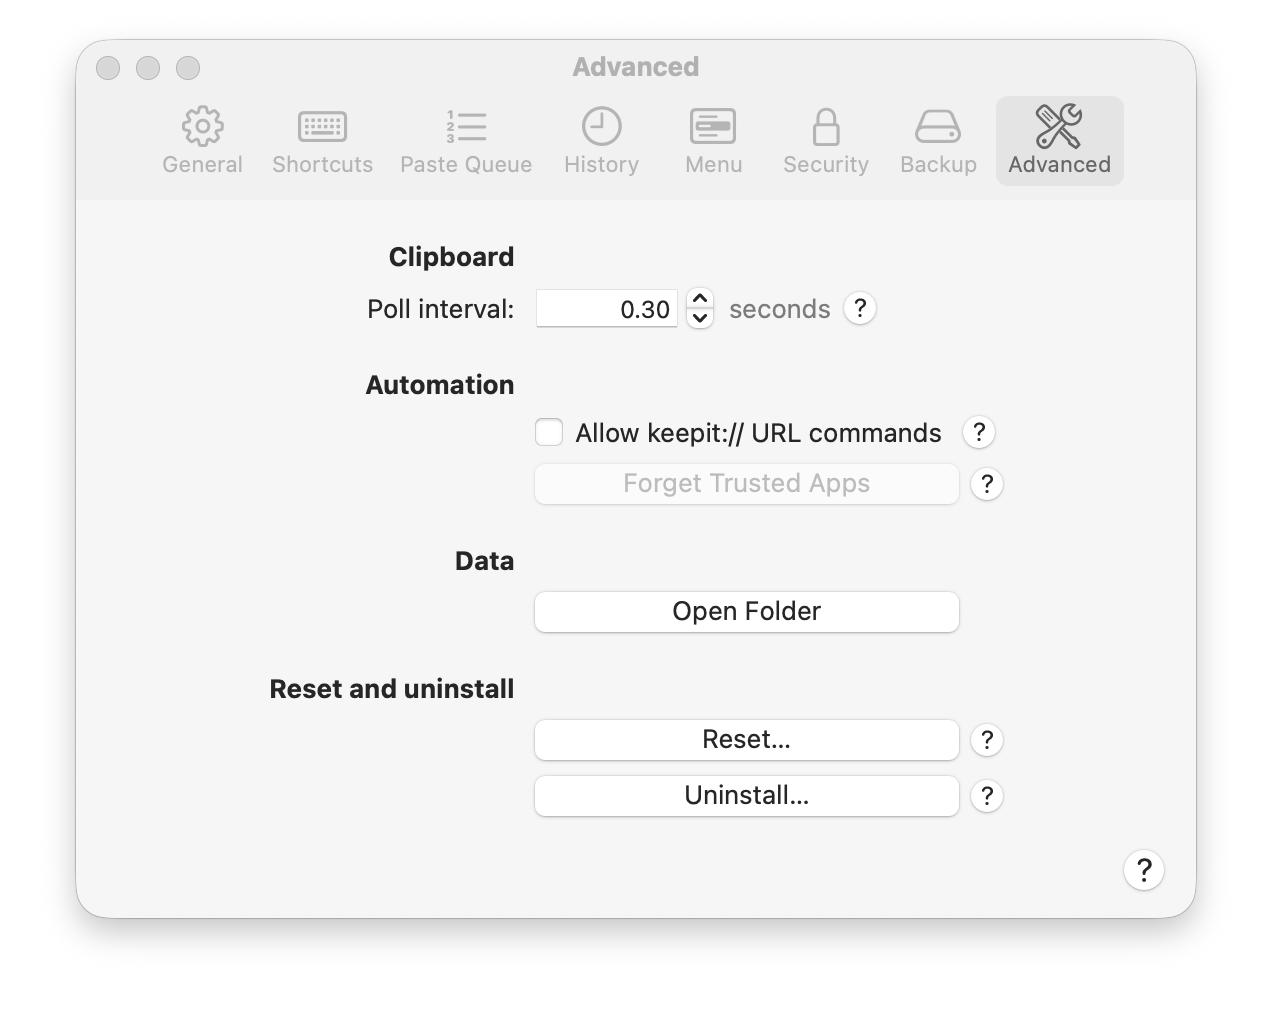
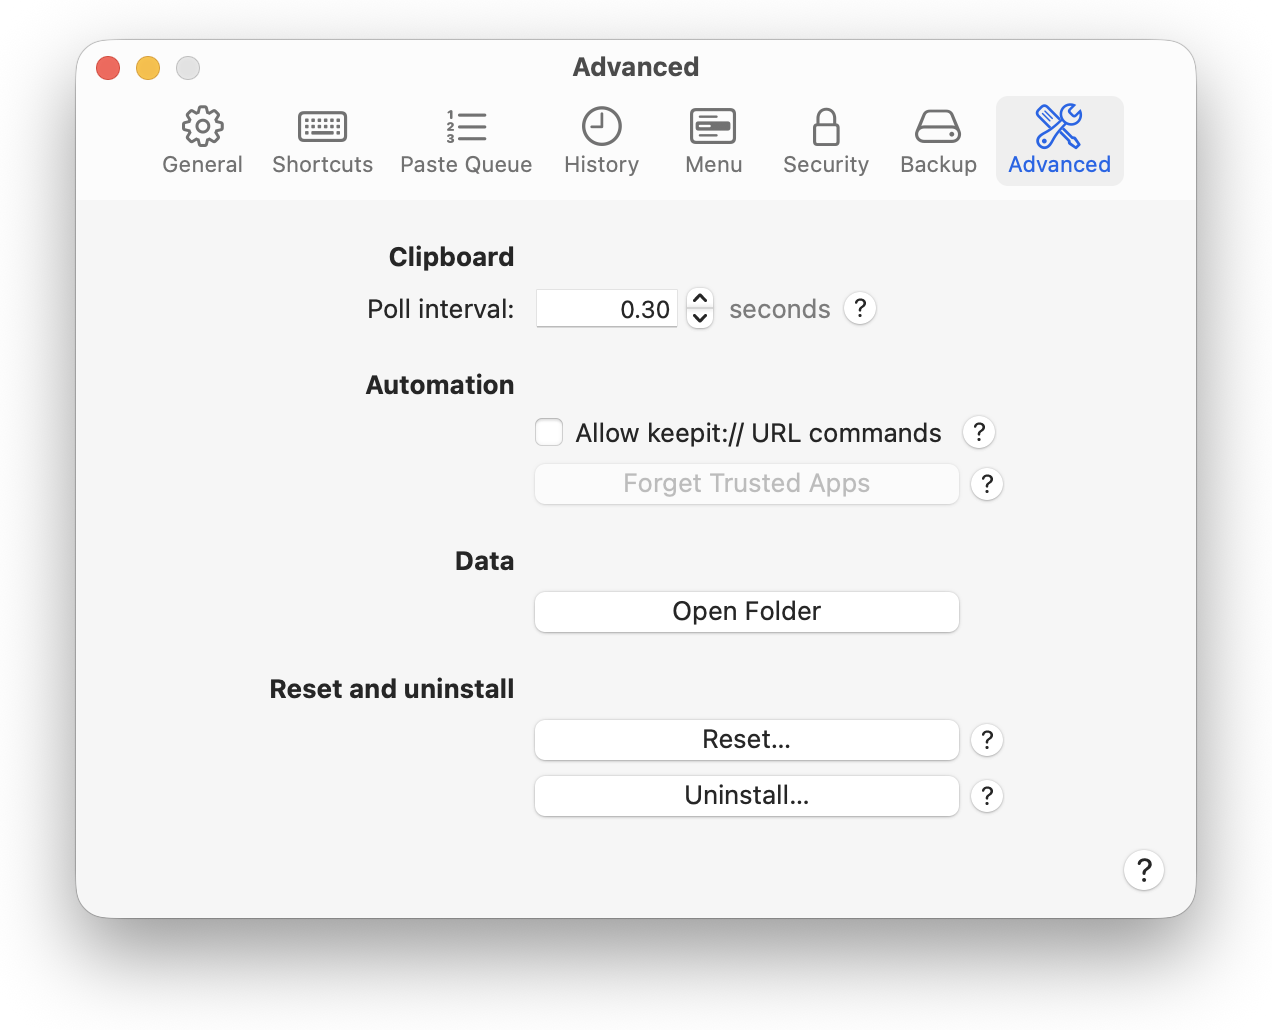
Guide: Backup and Advanced panes retaken on 3.0.1; the restore preview and the Save to Archive panel as figures
Claude-Session: https://claude.ai/code/session_018CvCqvTTYcjZs6rVg6ZZHt

diff --git a/docs/site/guide.html b/docs/site/guide.html
@@ -418,7 +418,7 @@ changed. There is no Keepit server: the folder is yours. What the provider behin
 encrypted file, its size and a small unencrypted header (when and by which Keepit it was written,
 how the key is derived, random identifiers — and your Mac's name only if you switch that on); the
 <a href="/security#backups">security page</a> lists it field by field.</p>
-<figure class="shot" style="max-width:636px"><a href="img/guide/prefs-backup.png?v=20cf46e6" class="zoom" title="Open full size"><img src="img/guide/prefs-backup.png?v=20cf46e6" alt="Settings → Backup: automatic backup, manual backup, restore" width="636" height="527" loading="lazy"></a><figcaption>Settings → Backup: automatic backup, manual backup, restore</figcaption></figure>
+<figure class="shot" style="max-width:636px"><a href="img/guide/prefs-backup.png?v=74a89d0d" class="zoom" title="Open full size"><img src="img/guide/prefs-backup.png?v=74a89d0d" alt="Settings → Backup: automatic backup, manual backup, restore" width="636" height="527" loading="lazy"></a><figcaption>Settings → Backup: automatic backup, manual backup, restore</figcaption></figure>
 <p><strong>Switching it on.</strong> <em>Settings → Backup → Back up automatically to a folder</em>, then
 <em>Choose…</em> a folder (the chooser opens in iCloud Drive). Automatic backup needs the password
 protection from <em>Settings → Security</em>: each copy is sealed with a key derived from your vault's key,
@@ -439,6 +439,7 @@ can see that name; that is why it is optional.</p>
 after you unlock it: with the password of the Mac it was made on, or with the recovery phrase that
 Mac showed when its password was set (<em>Recovery Access…</em> in the password dialog). A preview shows
 when and where the file was made and how many items it holds, then:</p>
+<figure class="shot" style="max-width:636px"><a href="img/guide/restore-preview.png?v=9cc1b2ab" class="zoom" title="Open full size"><img src="img/guide/restore-preview.png?v=9cc1b2ab" alt="The restore preview: when and by which Keepit the file was written, what it holds, Merge or Replace" width="636" height="592" loading="lazy"></a><figcaption>The restore preview: when and by which Keepit the file was written, what it holds, Merge or Replace</figcaption></figure>
 <ul>
 <li><em>Merge</em> adds what is not already there — history items by content, and the backup's templates as
   one new folder named <em>Imported <date></em>, without their hot keys — so you can see exactly what came
@@ -468,8 +469,9 @@ phrase. <em>Save to Archive…</em> writes one <code>.keepit</code> <em>archive<
 password you pick for it: it does not need Keepit's password protection, and Keepit does not keep
 track of the file afterwards — for handing data over, or for a copy outside the backup folder.
 Its suggested name says what it is: <code>Keepit-archive-&lt;date&gt;-manual.keepit</code>, next to the automatic
-copies' <code>Keepit-&lt;date and time&gt;-&lt;installation&gt;-&lt;id&gt;.keepit</code>.
-<em>Restore…</em> opens either. The archive replaces <em>Export…</em> / <em>Import…</em> of 2.x; the file moves data
+copies' <code>Keepit-&lt;date and time&gt;-&lt;installation&gt;-&lt;id&gt;.keepit</code>.</p>
+<figure class="shot" style="max-width:636px"><a href="img/guide/save-to-archive.png?v=0ec6b595" class="zoom" title="Open full size"><img src="img/guide/save-to-archive.png?v=0ec6b595" alt="Save to Archive…: the file name says archive and manual" width="636" height="600" loading="lazy"></a><figcaption>Save to Archive…: the file name says archive and manual</figcaption></figure>
+<p><em>Restore…</em> opens either. The archive replaces <em>Export…</em> / <em>Import…</em> of 2.x; the file moves data
 between the direct download and the App Store edition, and between Keepit 2.x and 3.x — a file
 written by 3.0 needs 3.0 or newer to open; 3.0 reads everything 2.x wrote.</p>
 <p><strong>If something goes wrong.</strong> A failed copy is reported in the status line and retried with growing
@@ -544,7 +546,7 @@ entries (including the Touch ID key), the login item and the Accessibility entry
 password or Touch ID, a typed <code>DELETE</code> and a confirmation — export a backup first if you might want
 the data back. With Homebrew, run <code>brew uninstall --cask --force keepit</code> afterwards so Homebrew
 forgets the cask.</p>
-<figure class="shot" style="max-width:636px"><a href="img/guide/prefs-advanced.png?v=8dd10f4d" class="zoom" title="Open full size"><img src="img/guide/prefs-advanced.png?v=8dd10f4d" alt="Settings → Advanced" width="636" height="515" loading="lazy"></a><figcaption>Settings → Advanced</figcaption></figure>
+<figure class="shot" style="max-width:636px"><a href="img/guide/prefs-advanced.png?v=7b874d4f" class="zoom" title="Open full size"><img src="img/guide/prefs-advanced.png?v=7b874d4f" alt="Settings → Advanced" width="636" height="515" loading="lazy"></a><figcaption>Settings → Advanced</figcaption></figure>
 <hr />
 <h2 id="reference">Reference</h2>
 <h3 id="troubleshooting">Troubleshooting</h3>

diff --git a/docs/GUIDE.md b/docs/GUIDE.md
@@ -389,6 +389,8 @@ after you unlock it: with the password of the Mac it was made on, or with the re
 Mac showed when its password was set (*Recovery Access…* in the password dialog). A preview shows
 when and where the file was made and how many items it holds, then:
 
+![The restore preview: when and by which Keepit the file was written, what it holds, Merge or Replace](site/img/guide/restore-preview.png)
+
 - *Merge* adds what is not already there — history items by content, and the backup's templates as
   one new folder named *Imported <date>*, without their hot keys — so you can see exactly what came
   from the backup and move or delete it. Nothing of yours is overwritten.
@@ -421,6 +423,9 @@ password you pick for it: it does not need Keepit's password protection, and Kee
 track of the file afterwards — for handing data over, or for a copy outside the backup folder.
 Its suggested name says what it is: `Keepit-archive-<date>-manual.keepit`, next to the automatic
 copies' `Keepit-<date and time>-<installation>-<id>.keepit`.
+
+![Save to Archive…: the file name says archive and manual](site/img/guide/save-to-archive.png)
+
 *Restore…* opens either. The archive replaces *Export…* / *Import…* of 2.x; the file moves data
 between the direct download and the App Store edition, and between Keepit 2.x and 3.x — a file
 written by 3.0 needs 3.0 or newer to open; 3.0 reads everything 2.x wrote.
